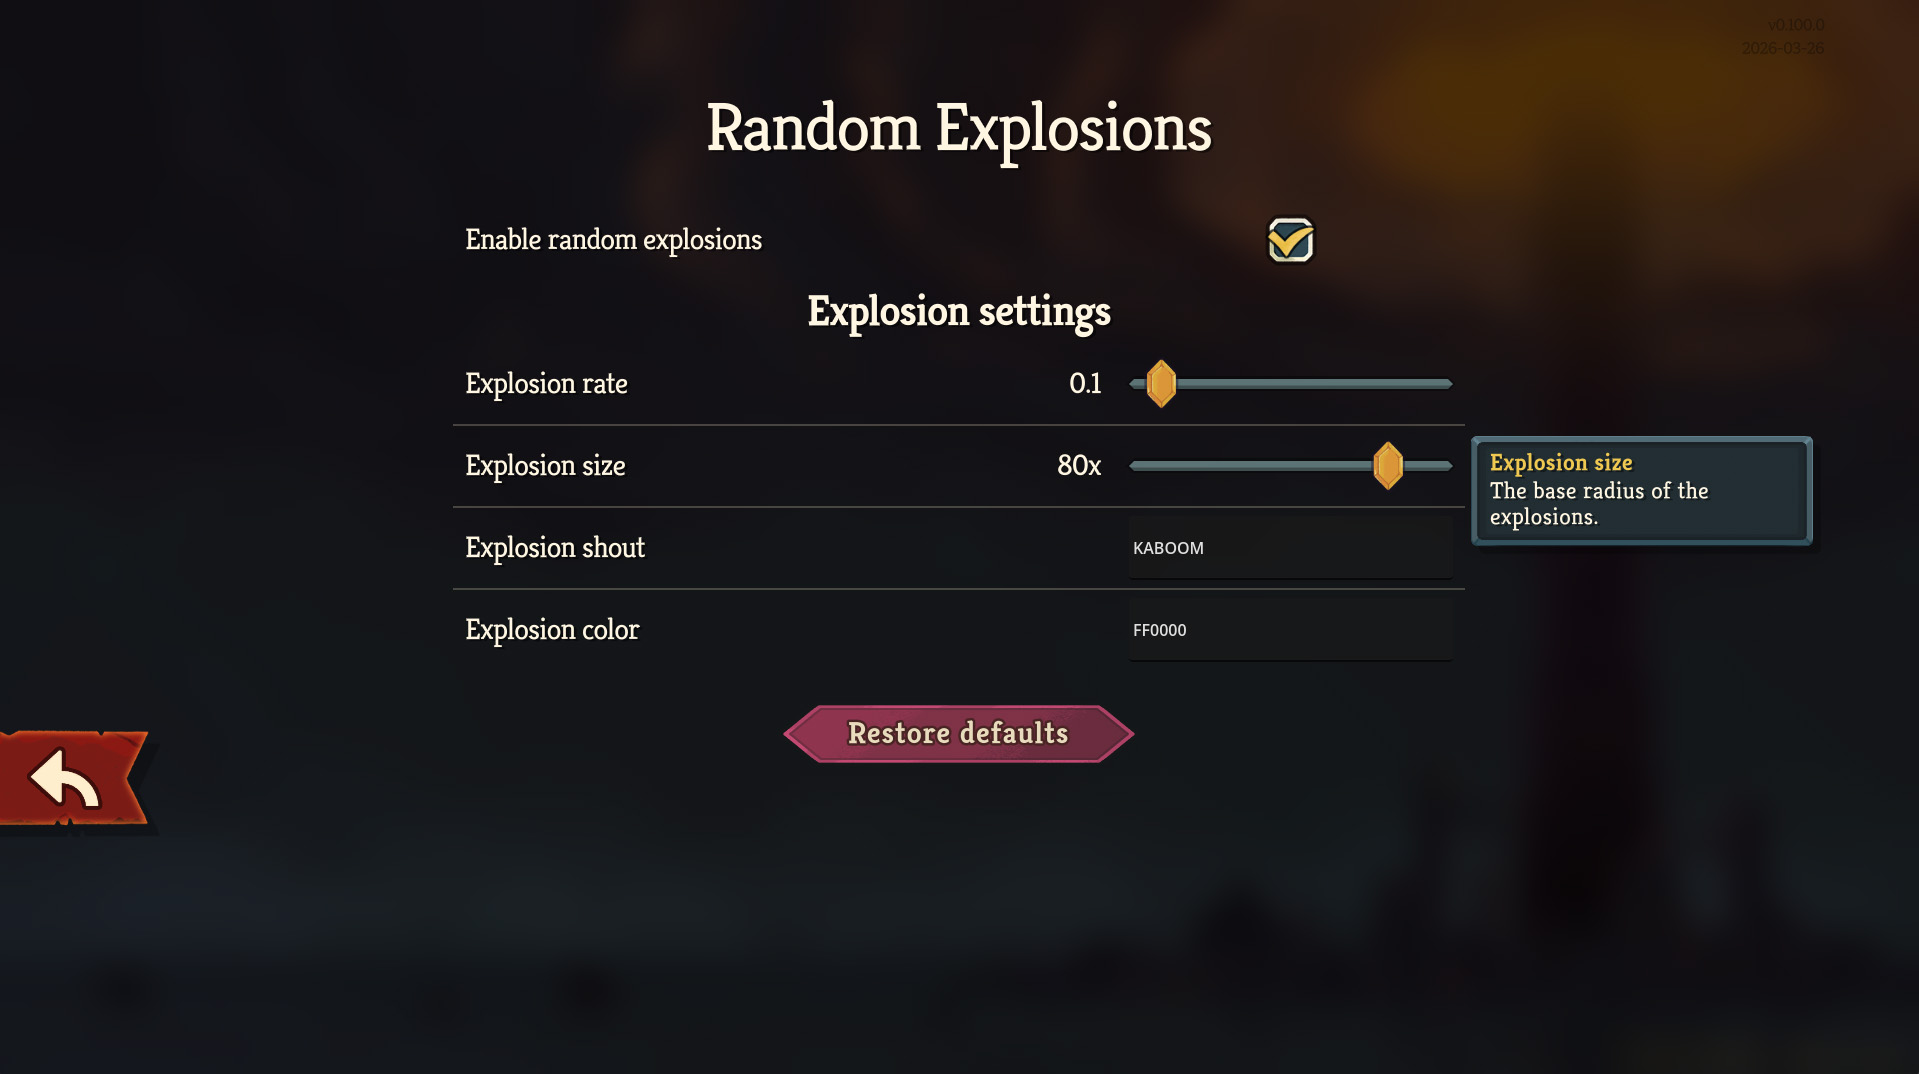
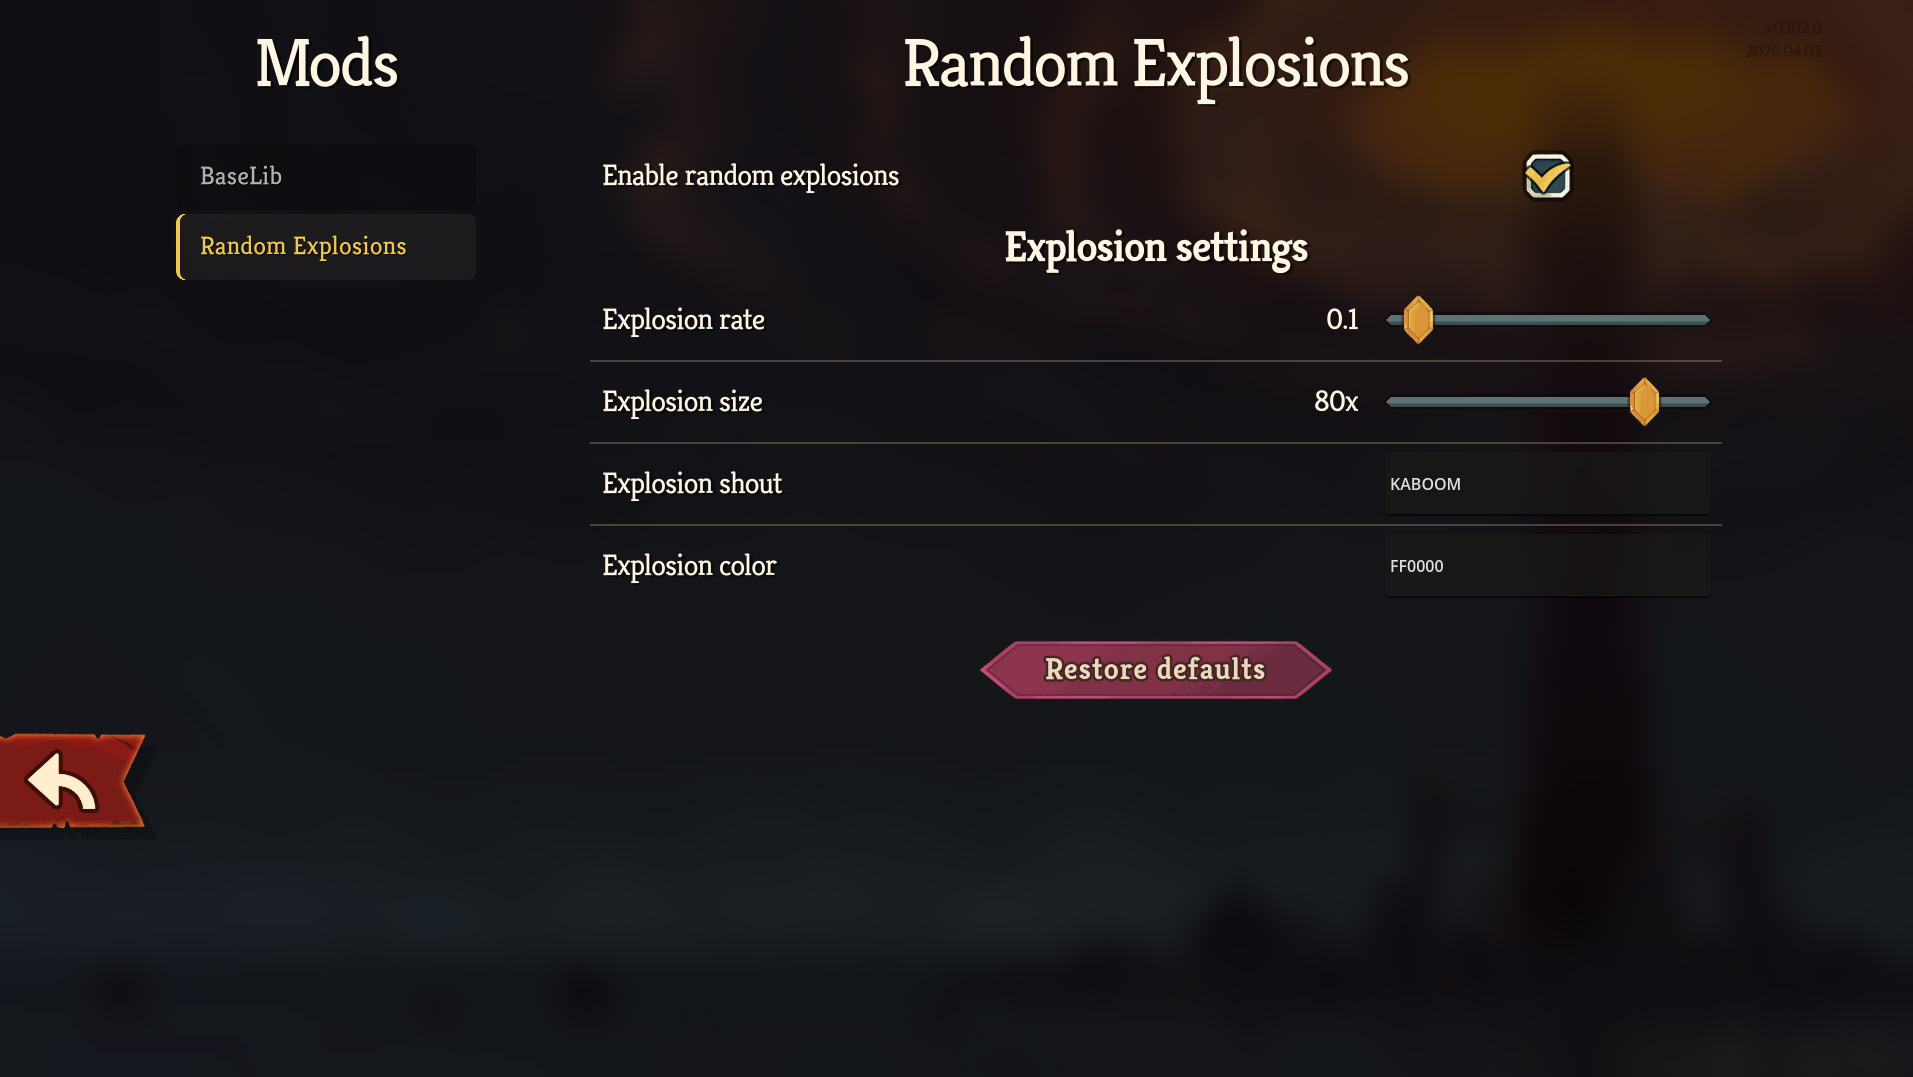
Mod config doc updates
* int, float, double for Sliders
* Mod Config now in main menu + Settings (with updated screenshot)
* [ConfigVisibleWhen] attribute

diff --git a/docs/utilities/config.md b/docs/utilities/config.md
@@ -19,7 +19,7 @@ Inside this class, define a **static** property for each config value you need. 
 ```c#
 internal class MyModConfig : SimpleModConfig {
     public static bool RandomExplosions { get; set; } = true;
-    public static double ExplosionSize { get; set; } = 5000;
+    public static int ExplosionSize { get; set; } = 80;
 }
 ```
 
@@ -33,9 +33,10 @@ public static void Initialize() {
 ```
 
 This is all you need to do in order to have BaseLib load and save your configuration data automatically, as well as create a configuration UI.  
+Since the properties are static, access them as e.g. `MyModConfig.ExplosionSize`. You typically don't need to store the instance.
 
-After doing this, you should be able to find your mod's config screen by going to Settings -> Mod Settings -> Your Mod -> Settings button.  
-Creating a separate screen to avoid going through this many layers is under consideration.
+After doing this, you should be able to find your mod's config screen in the Mod Configuration menu (in the main menu by default, 
+and under Settings).
 
 ## Localization
 
@@ -54,13 +55,13 @@ See the [Setup page for the mod template](https://github.com/Alchyr/ModTemplate-
 ## Automatic UI
 The following types are currently supported:
 
-| Type     | Generates                                                             |
-|----------|-----------------------------------------------------------------------|
-| bool     | Checkbox                                                              |
-| double   | Slider                                                                |
-| string   | LineEdit                                                              |
-| Any enum | Dropdown                                                              |
-| Method   | Button (see [Advanced]({% link docs/utilities/config-advanced.md %})) |
+| Type               | Generates                                                             |
+|--------------------|-----------------------------------------------------------------------|
+| bool               | Checkbox                                                              |
+| int, float, double | Slider                                                                |
+| string             | LineEdit                                                              |
+| Any enum           | Dropdown                                                              |
+| Method             | Button (see [Advanced]({% link docs/utilities/config-advanced.md %})) |
 
 Static properties of other types need to be marked with `[ConfigIgnore]`.
 
@@ -81,14 +82,20 @@ internal class MyModConfig : SimpleModConfig {
 
     // Adds a section separator with a title. Can be localized the same way as properties.
     [ConfigSection("ExplosionSettings")]
+
+    // Hide a row unless another property has a specific value. Can be inverted with a third parameter
+    // (invert) set to true.
+    [ConfigVisibleWhen(nameof(RandomExplosions), true)]
+
     // Sets the min, max, and step of a double.
     [SliderRange(0, 1, 0.01)]
     public static double ExplosionRate { get; set; } = 0.1;
 
     // See https://learn.microsoft.com/en-us/dotnet/standard/base-types/custom-numeric-format-strings
     // for formatting details
+    [SliderRange(1, 100)]
     [SliderLabelFormat("{0:#,#}x")]
-    public static double ExplosionSize { get; set; } = 5000;
+    public static int ExplosionSize { get; set; } = 80;
 
     // Allows international letters, numbers, spaces, dashes
     [ConfigTextInput(TextInputPreset.SafeDisplayName, MaxLength = 12)]
@@ -112,6 +119,6 @@ internal class MyModConfig : SimpleModConfig {
 }
 ```
 
-With all localization strings added, the config above looks like this (v0.2.1):
+With all localization strings added, the config above looks like this (v0.2.7):
 
 <img src="{{ '/images/config-standard.jpg' | relative_url }}" width="736" alt="Generated Config UI" />

diff --git a/docs/utilities/config-advanced.md b/docs/utilities/config-advanced.md
@@ -68,7 +68,10 @@ You could add a config option to let the player set the number of custom cards t
 Attributes like `[SliderRange]` only support values known at compile time, so you need to do this manually.
 
 ```csharp
-public static double DraftPoolSize { get; set; } = 10;
+// Ensure that the initial max value is AT LEAST the max possible dynamic value, or the user's value will
+// get clamped to the slider's initial maximum (100 by default) before you call SetRange!
+[SliderRange(1, 200)]
+public static int DraftPoolSize { get; set; } = 10;
 
 public override void SetupConfigUI(Control optionContainer)
 {
@@ -91,7 +94,6 @@ public override void SetupConfigUI(Control optionContainer)
 }
 ```
 <img src="{{ '/images/config-wide-slider.jpg' | relative_url }}" alt="Extra wide slider" />
-
 
 ## Additional methods
 
